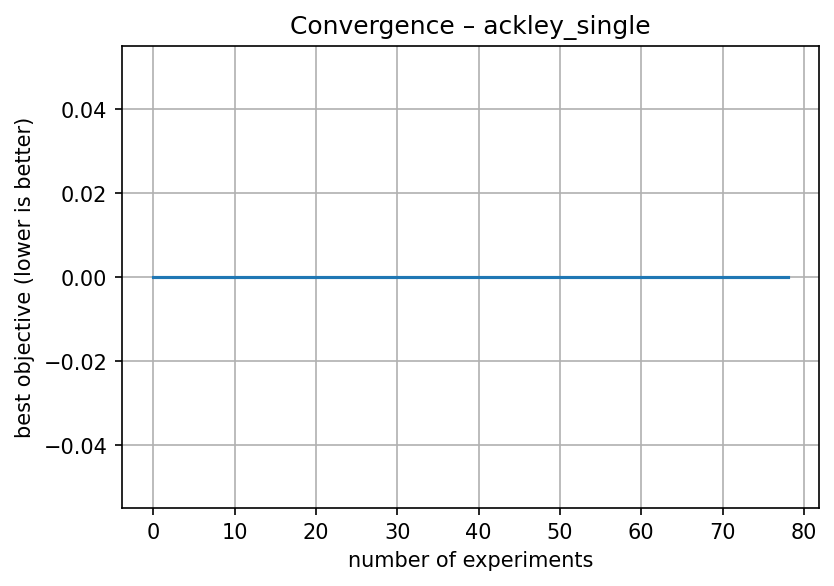
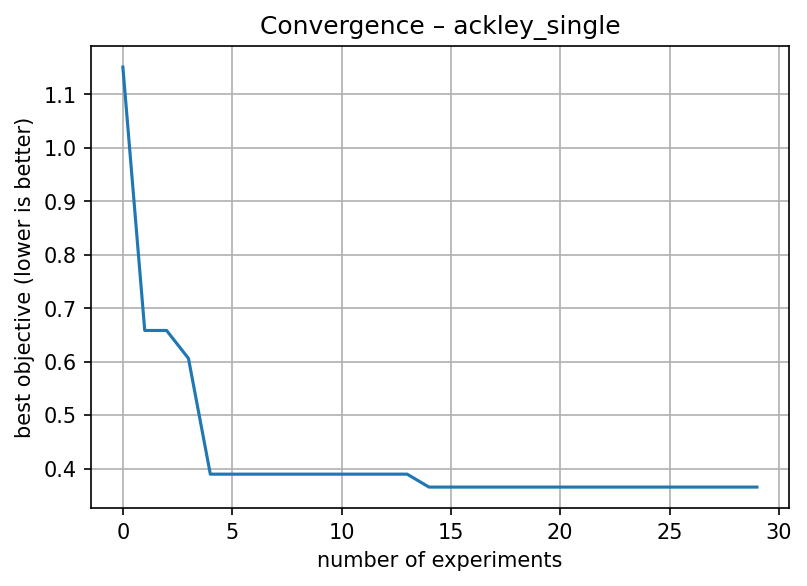
module refactoring

diff --git a/zombihop.py b/zombihop.py
@@ -67,16 +67,17 @@ class ZombiHop:
         self.xi = 0.1
 
 
-    def run_experimental(self, n_droplets, n_vectors, verbose = False, plot = True):
+    def run_experimental(self, n_droplets, n_vectors, delta = 1e-6, verbose = False, plot = True):
         # === INITIALIZATION ===#
         random.seed(self.seed)
         np.random.seed(self.seed)
+        best_so_far = np.inf
         GP = utils.reset_GP(self.X_init, self.Y_init)  # initialize the first GP model
         lower_bound = self.lower_bound # initialize bounds based on user-selection
         upper_bound = self.upper_bound # initialize bounds based on user-selection
         full_mesh = utils.simplex_bounded_mesh(self.X_init.shape[1], lower_bound, upper_bound, self.ftype, self.resolution)  # full, un-zoomed mesh. This will not be updated
         print(full_mesh.shape[0]*full_mesh.shape[1])
-        dimension_meshes = utils.simplex_bounded_mesh(self.X_init.shape[1], lower_bound, upper_bound, self.ftype, self.resolution)  # mesh that will dynamically zoom in each iteration
+        dimension_meshes = full_mesh.copy()
         penalty_mask = np.ones((dimension_meshes.shape[0], 1)).astype(self.ftype)  # init penalty mask as all ones => has no multiplicative effect
         X_intermediate, Y_intermediate, X_all, Y_all, X_GPmemory, Y_GPmemory, X_BOUNDmemory, Y_BOUNDmemory, X_final, Y_final, needles, needle_locs = utils.initialize_arrays(self.X_init, self.Y_init)
         m_bias = 0 # bias to selecting m-best points for creating the bounds. Increasing the bias slides the window towards worse performing points to generate different boundary when no higher-perfoming points exist
@@ -89,7 +90,7 @@ class ZombiHop:
             prune = True  # set prune to true again, attempt another zoom-in
 
             for alpha in range(self.alphas):  # number of ZoMBI activations
-                print(f'\n    Activate ZoMBI . . . ({alpha + 1}/{self.alphas})')
+                print(f'\nActivate ZoMBI . . . ({alpha + 1}/{self.alphas})')
 
                 # === CREATE PENALTY MASK ===#
                 # for every round of ZoMBI, create a new penalty mask using the previously stored needle values
@@ -100,7 +101,7 @@ class ZombiHop:
                     if plot:
                         utils.plot_penalty_dist(penalty_mask, lower_bound, upper_bound)
                 if np.sum(~penalty_mask.astype(bool)) / len(penalty_mask) >= 0.9:  # if the bounded area is penalized,by more than 90%, then zoom out and do not prune memory
-                    print('Bounded region is over 90% penalized. Zooming out.')
+                    #print('Bounded region is over 90% penalized. Zooming out.')
                     prune = False  # do not prune if region is fully penalized and cannot zoom in => must keep sampling
                     m_bias += 1  # update sliding m-best point selector bias. Will shift window for m-best points when creating zooming bounds
                     break
@@ -138,9 +139,10 @@ class ZombiHop:
                     # 3) apply your 1-D penalty mask
                     mask    = penalty_mask.ravel()   # shape (n_pts,)
                     acq_mask = acq_flat * mask       # still shape (n_pts,)
-
+                
                     # 4) pick the best index and ask point
                     best_idx = int(np.argmax(acq_mask))
+                    utils.check_line_consistency(acq_mask, best_idx)
                     X_ask    = dimension_meshes[best_idx, :].reshape(1, -1)
 
                     # tell the model what experiments were created
@@ -167,7 +169,8 @@ class ZombiHop:
                         Y_tell = self.Y_experimental(X_ask)
                         X_tell = X_ask
 
-                    print('OBJECETIVES: ', Y_tell)
+
+                    #print('OBJECETIVES: ', Y_tell)
 
                     # # check posterior of surrogate with Y_tell, only check best performer of Y_tell
                     # Y_tell_min = np.min(Y_tell) # get minimum Y_tell
@@ -178,6 +181,11 @@ class ZombiHop:
 
                     # 1) Find your experimental best index exactly as before
                     Y_tell_min = np.min(Y_tell)
+                    if abs(best_so_far-Y_tell_min)<delta:
+                        print("Algorithm has converged with delta = {delta}, exited.")
+                        return X_all, Y_all, needle_locs, needles
+                    else:
+                        best_so_far = Y_tell_min
                     best_idx   = int(np.argmin(Y_tell))
 
                     # 2) Batch-predict the entire droplet set at once
@@ -190,10 +198,11 @@ class ZombiHop:
                     # 4) Reset X_tell_min for downstream code (shape (1, D))
                     X_tell_min = X_tell[best_idx].reshape(1, -1)
 
-
+                    
 
                     # compute error between surrogate posterior and "experimental"
-                    error = np.abs(Y_tell_min - ymodel)/np.abs(Y_tell_min)
+                    eps = 1e-12
+                    error = np.abs(Y_tell_min - ymodel)/np.abs(Y_tell_min+eps)
                     error_list.append(error)
 
                     # get "experimental" measurements from the BO prediction for X and Y
@@ -223,7 +232,7 @@ class ZombiHop:
                     if np.sum(np.array(error_list[-3:]) <= self.tolerance) >= 3:
                         break
                 # break inner loop if we have found a needle.
-                if np.sum(np.array(error_list[-3:]) <= self.tolerance) >= 3:
+                if len(error_list)>=5 and np.sum(np.array(error_list[-5:]) <= self.tolerance) ==5:
                     print('\nFound a needle!')
                     needles = pd.concat([needles, Y_intermediate[-1:]])
                     needle_locs = pd.concat([needle_locs, X_intermediate[-1:]])
@@ -237,6 +246,7 @@ class ZombiHop:
                 upper_bound = np.max(X_BOUNDmemory.iloc[top_m, :], axis=0)  # get all dim upper bounds from M points
                 # compute new bounds for ZoMBI
                 dimension_meshes = utils.simplex_bounded_mesh(X_BOUNDmemory.shape[1], lower_bound, upper_bound, self.ftype, self.resolution)  # zoom in and update search mesh
+                penalty_mask = np.ones((dimension_meshes.shape[0], 1)).astype(self.ftype)
                 # ======================#
 
             # keep track of all data points, including all pruned points => append intermediate points before pruning. X,Y_all are not used in ZoMBI, only for record keeping and plotting
@@ -247,7 +257,7 @@ class ZombiHop:
                 print(f'\nPruning memory and zooming out. Keep top k={self.k} points\n')
                 # prune memory, keep only the top k-number of data points
                 #         prior_n = len(Y_final) # number of data points present in data set from prior iteration
-                X_pruned, Y_pruned = utils.memory_prune(self.k, self.tolerance, X_intermediate, Y_intermediate)
+                X_pruned, Y_pruned = utils.memory_prune_best_recent(self.k, self.tolerance, X_intermediate, Y_intermediate)
                 # update final df
                 X_final = pd.concat([X_final, X_pruned], ignore_index=True)
                 Y_final = pd.concat([Y_final, Y_pruned], ignore_index=True)
@@ -267,5 +277,6 @@ class ZombiHop:
             lower_bound = np.zeros(self.X_init.shape[1])
             upper_bound = np.ones(self.X_init.shape[1])
             dimension_meshes = full_mesh  # reset search bounds
+            penalty_mask = np.ones((dimension_meshes.shape[0], 1)).astype(self.ftype)
 
         return X_all, Y_all, needle_locs, needles

diff --git a/benchmark_10d_linbo.py b/benchmark_10d_linbo.py
@@ -25,52 +25,77 @@ from acquisitions import LCB_ada
 from sampler import line_bo_sampler
 
 
-def ackley10(x: np.ndarray) -> np.ndarray:
-    """10‑D Ackley (global minimum at 0 when x in [0,1]^10)."""
+
+def ackley10_simplex(x: np.ndarray) -> np.ndarray:
+    """
+    Ackley where the global minimum (≈0) sits at the centre of the D-simplex,
+    i.e.  x* = (1/D,…,1/D) with Σx_i = 1.
+    """
     a, b, c = 20.0, 0.2, 2 * np.pi
-    d = x.shape[1]
-    sum_sq = np.sum((x - 0.5) ** 2, axis=1) * 4  # centre the well at 0.5
-    sum_cos = np.sum(np.cos(c * (x - 0.5)), axis=1)
-    fx = a + np.e - a * np.exp(-b * np.sqrt(sum_sq / d)) - np.exp(sum_cos / d)
+    d       = x.shape[1]
+
+    centre  = np.full(d, 1.0 / d, dtype=x.dtype)
+    y       = x - centre
+
+    sum_sq  = np.sum(y ** 2, axis=1)
+    sum_cos = np.sum(np.cos(c * y), axis=1)
+
+    fx = a + np.e \
+         - a * np.exp(-b * np.sqrt(sum_sq / d)) \
+         - np.exp(sum_cos / d)
     return fx.reshape(-1, 1)
 
-
-def multiwell_ackley(x: np.ndarray, extra_wells: int = 2, depth: float = 5.0) -> np.ndarray:
-    """Ackley with additional Gaussian wells of varying depths.
+def multiwell_ackley10_simplex(
+    x:           np.ndarray,
+    extra_wells: int        = 2,
+    depths:      float | np.ndarray = 5.0,
+    width:       float      = 0.07,
+    seed:        int        = 42,
+) -> np.ndarray:
+    """
+    Ackley-on-simplex plus `extra_wells` Gaussian wells of specified `depths`.
 
     Parameters
     ----------
-    x           : (n,10) array on simplex
-    extra_wells : how many secondary wells to add (random centres)
-    depth       : depth (positive) of those wells relative to baseline Ackley
+    x           : (n, D) points on the simplex.
+    extra_wells : number of secondary minima to add.
+    depths      : scalar or array-like of length `extra_wells`; deeper ⇒ lower.
+    width       : shared Gaussian width (L2 σ) of those wells.
+    seed        : RNG seed for deterministic well locations.
+
+    Returns
+    -------
+    f(x)        : (n, 1) array of objective values (lower is better).
     """
-    base = ackley10(x).ravel()
-    rng = np.random.default_rng(42)
+    base   = ackley10_simplex(x).ravel()
 
-    # fixed random centres for reproducibility
+    # RNG for reproducible secondary-well centres
+    rng     = np.random.default_rng(seed)
     centres = rng.dirichlet(np.ones(x.shape[1]), size=extra_wells)
-    widths = 0.1  # shared width in L2 norm
 
-    penalty = np.zeros_like(base)
-    for c in centres:
+    # broadcast depths → array[extra_wells]
+    depths  = np.broadcast_to(np.asarray(depths, dtype=x.dtype), extra_wells)
+
+    bonus   = np.zeros_like(base)
+    for c, dpth in zip(centres, depths):
         dist2 = np.sum((x - c) ** 2, axis=1)
-        penalty -= depth * np.exp(-dist2 / (2 * widths ** 2))
+        bonus -= dpth * np.exp(-dist2 / (2 * width ** 2))
 
-    return (base + penalty).reshape(-1, 1)
+    return (base + bonus).reshape(-1, 1)
 
 
-def dirichlet_init(D: int, n_pts: int, seed: int):
+def dirichlet_init(obj_fun, D: int, n_pts: int, seed: int):
     rng = np.random.default_rng(seed)
     X = rng.dirichlet(np.ones(D), size=n_pts)
     X = np.round(X, 3)
     X[:, -1] = 1.0 - X[:, :-1].sum(axis=1)  # enforce simplex exactly
-    Y = np.zeros((n_pts, 1))
+    Y = obj_fun(X)
     return pd.DataFrame(X), pd.DataFrame(Y)
 
 
 def run_one_objective(obj_fun, label: str, args):
     D = 10
-    X_init, Y_init = dirichlet_init(D, args.init_pts, args.seed)
+    X_init, Y_init = dirichlet_init(obj_fun, D, args.init_pts, args.seed)
 
     zombi = ZombiHop(
         seed=args.seed,
@@ -81,8 +106,8 @@ def run_one_objective(obj_fun, label: str, args):
         alphas=args.alphas,
         n_draws_per_activation=args.draws,
         acquisition_type=LCB_ada,
-        tolerance=0.9,
-        penalty_width=0.3,
+        tolerance=0.15,
+        penalty_width=0.1,
         m=5,
         k=5,
         lower_bound=np.zeros(D),
@@ -91,47 +116,29 @@ def run_one_objective(obj_fun, label: str, args):
         sampler=None,
     )
 
-    best_hist = []
-    time_hist = []
     t0 = time.perf_counter()
-
-    orig_progress = utils.progress_bar  # type: ignore
-
-    def pb(n, T, inc):
-        val = orig_progress(n, T, inc)
-        # record after every experiment
-        if n % 1 == 0:
-            best_hist.append(float(zombi.Y_init.min()))
-            time_hist.append(time.perf_counter() - t0)
-        return val
-
-    utils.progress_bar = pb
-
-    zombi.run_experimental(
+    X_all, Y_all, *_ = zombi.run_experimental(
         n_droplets=args.draws,
         n_vectors=args.n_vectors,
         verbose=False,
         plot=False,
     )
 
-    best_hist = np.asarray(best_hist)
-    time_hist = np.asarray(time_hist)
+    best_hist = np.minimum.accumulate(Y_all.values.ravel())
+    time_hist = np.linspace(0, time.perf_counter() - t0, len(best_hist))
 
-    # Plot convergence
     plt.figure(figsize=(6, 4))
     plt.plot(best_hist, lw=1.5)
     plt.xlabel("number of experiments")
     plt.ylabel("best objective (lower is better)")
     plt.title(f"Convergence – {label}")
     plt.grid(True)
-    fname = Path(f"convergence_{label}.png")
-    plt.savefig(fname, dpi=150, bbox_inches="tight")
+    plt.savefig(Path(f"convergence_{label}.png"), dpi=150, bbox_inches="tight")
     plt.close()
 
-    # Plot wall‑clock
     plt.figure(figsize=(6, 4))
     plt.plot(time_hist, best_hist, lw=1.5)
-    plt.xlabel("wall‑clock time [s]")
+    plt.xlabel("wall-clock time [s]")
     plt.ylabel("best objective")
     plt.title(f"Time vs Experiments – {label}")
     plt.grid(True)
@@ -139,6 +146,7 @@ def run_one_objective(obj_fun, label: str, args):
     plt.close()
 
     print(f"Saved plots for {label}")
+
 
 
 def parse_args():
@@ -158,12 +166,12 @@ def main():
     args = parse_args()
 
     # 1) Baseline single‑well Ackley
-    run_one_objective(ackley10, "ackley_single", args)
+    run_one_objective(ackley10_simplex, "ackley_single", args)
 
     # 2) Multi‑well variant
     if args.wells > 0:
         def obj(x):
-            return multiwell_ackley(x, extra_wells=args.wells)
+            return multiwell_ackley10_simplex(x, extra_wells=args.wells)
         run_one_objective(obj, f"ackley_{args.wells}wells", args)
 
 

diff --git a/utils.py b/utils.py
@@ -15,8 +15,8 @@ def memory_prune(k, tolerance, X_updated, Y_updated):
     # Prune memory after each set of needle-finding zoom ins. Keep only the top k-number of points
     Y_new = np.array(Y_updated.copy()).reshape(-1) # only grab new values generated this iteration
     X_new = np.array(X_updated.copy())
-#     Y_new = np.array(Y_updated[prior_n:].copy()).reshape(-1) # only grab new values generated this iteration
-#     X_new = np.array(X_updated[prior_n:].copy())
+    # Y_new = np.array(Y_updated[prior_n:].copy()).reshape(-1) # only grab new values generated this iteration
+    # X_new = np.array(X_updated[prior_n:].copy())
     top_k = []
     top_kX = []
     while len(top_k) < k:
@@ -34,6 +34,45 @@ def memory_prune(k, tolerance, X_updated, Y_updated):
     df_kX = pd.DataFrame(top_kX, columns = X_updated.columns.values)[::-1] # convert to df
     df_k = pd.DataFrame(top_k, columns = Y_updated.columns.values)[::-1] # convert to df
     return df_kX, df_k
+
+def memory_prune_best_recent(k_best: int,
+                             r_recent: int,
+                             X_memory: pd.DataFrame,
+                             Y_memory: pd.DataFrame) -> tuple[pd.DataFrame,
+                                                             pd.DataFrame]:
+    """
+    Keep the top-`k_best` performers **plus** the most-recent `r_recent`
+    points (even if they are mediocre).  This preserves the local “shape”
+    while staying cheap.
+
+    Parameters
+    ----------
+    k_best   : how many global best points to retain
+    r_recent : how many of the newest points to keep untouched
+    """
+    # --- 1. grab recent ----------------------------------------------------
+    if r_recent > 0:
+        X_recent = X_memory.tail(r_recent)
+        Y_recent = Y_memory.tail(r_recent)
+    else:
+        X_recent = X_recent.iloc[0:0]   # empty DF with right columns
+        Y_recent = Y_recent.iloc[0:0]
+
+    # --- 2. global best (exclude those recent rows first) -----------------
+    remaining = Y_memory.iloc[:-r_recent] if r_recent else Y_memory
+    if len(remaining):
+        top_idx = np.argsort(remaining.values.reshape(-1))[:k_best]
+        X_best  = X_memory.iloc[top_idx]
+        Y_best  = remaining.iloc[top_idx]
+    else:
+        X_best = X_recent.iloc[0:0]
+        Y_best = Y_recent.iloc[0:0]
+
+    # --- 3. concatenate & drop dups ---------------------------------------
+    X_keep = pd.concat([X_best, X_recent]).drop_duplicates(ignore_index=True)
+    Y_keep = pd.concat([Y_best, Y_recent]).drop_duplicates(ignore_index=True)
+
+    return X_keep, Y_keep
 
 
 def create_penalty_mask(needle_locs, dimension_meshes, ftype, penalty_width):
@@ -124,7 +163,29 @@ def simplex_bounded_mesh(dims, lower_bound, upper_bound, ftype, resolution=10):
 
     # drop duplicates caused by projection
     mesh = np.unique(mesh, axis=0)
-    return mesh
+    return mesh.astype(ftype)
+
+def check_line_consistency(acq_vector: np.ndarray,
+                           chosen_idx: int,
+                           atol: float = 1e-10) -> None:
+    """
+    Fast sanity-check that the droplet you are about to print
+    (index = chosen_idx) has the maximum acquisition value on the line.
+
+    Raises
+    ------
+    AssertionError  if another entry beats the chosen one by > atol.
+    """
+    best_idx = int(np.argmax(acq_vector))
+    best_val = float(acq_vector[best_idx])
+    chosen_val = float(acq_vector[chosen_idx])
+
+    if best_idx != chosen_idx and best_val - chosen_val > atol:
+        raise AssertionError(
+            f"[Line check] Droplet #{chosen_idx} chosen, "
+            f"but droplet #{best_idx} has higher acquisition "
+            f"({chosen_val:.3g} < {best_val:.3g})."
+        )
 
 
 def m_norm(X):
